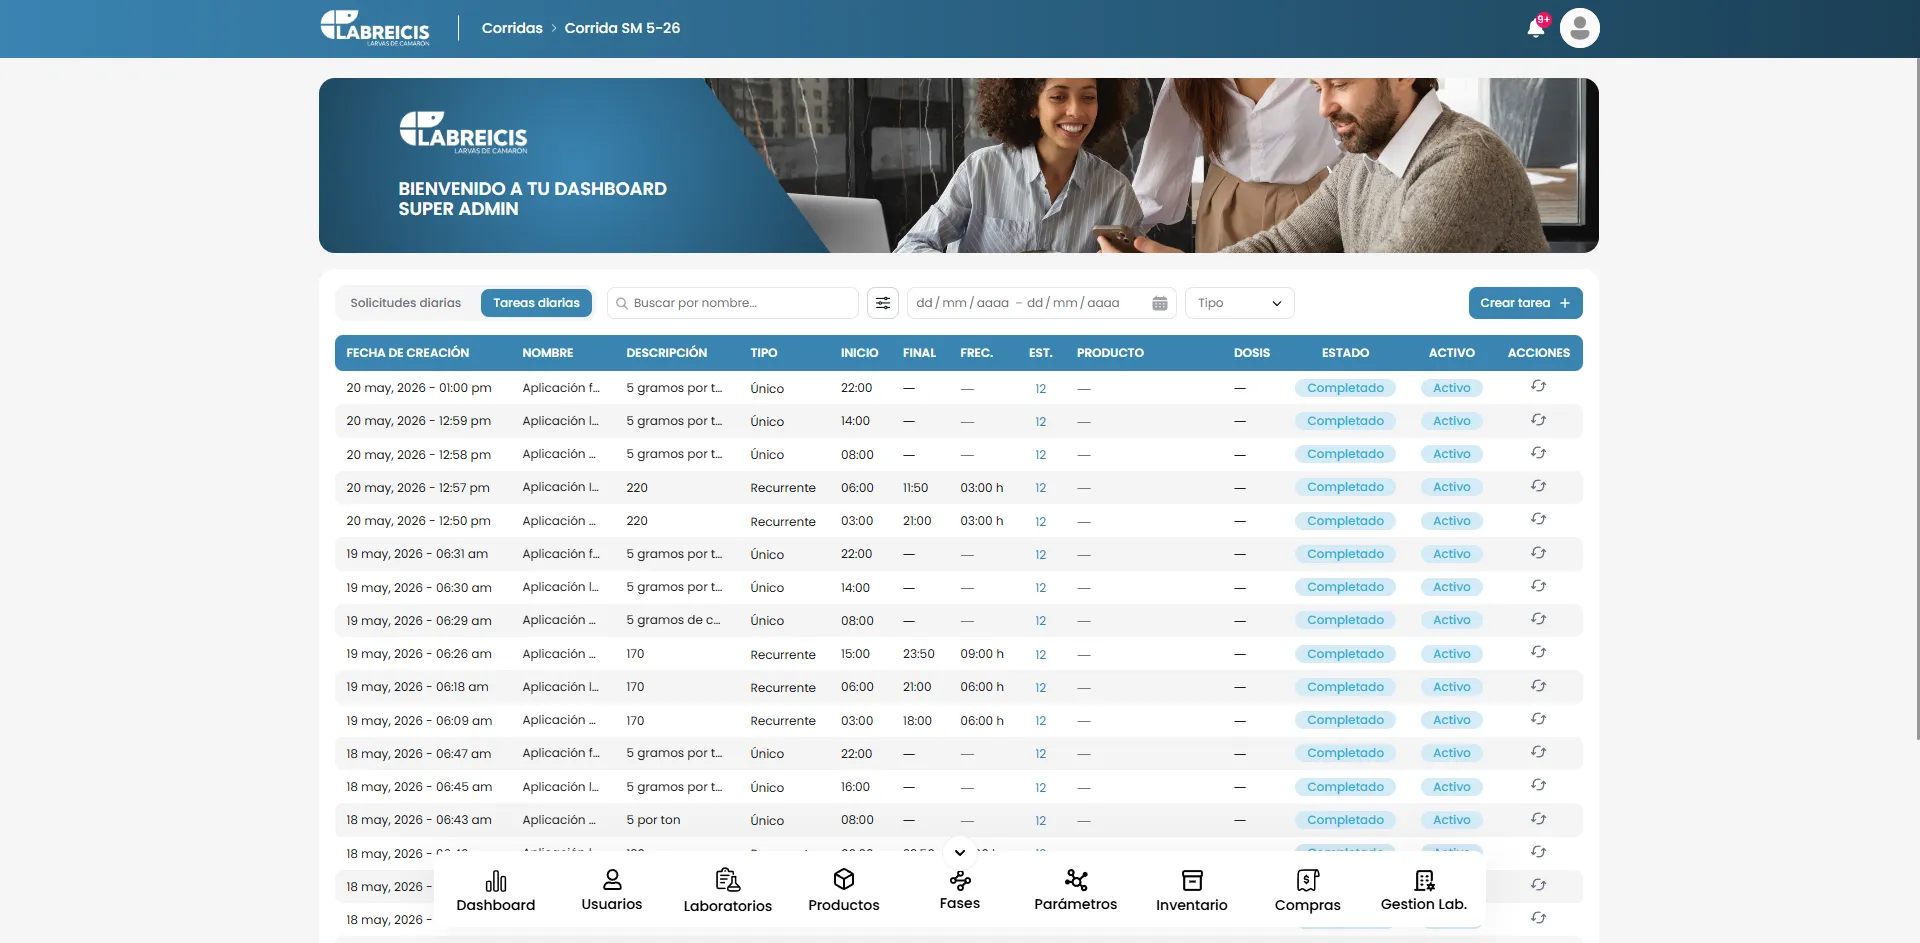
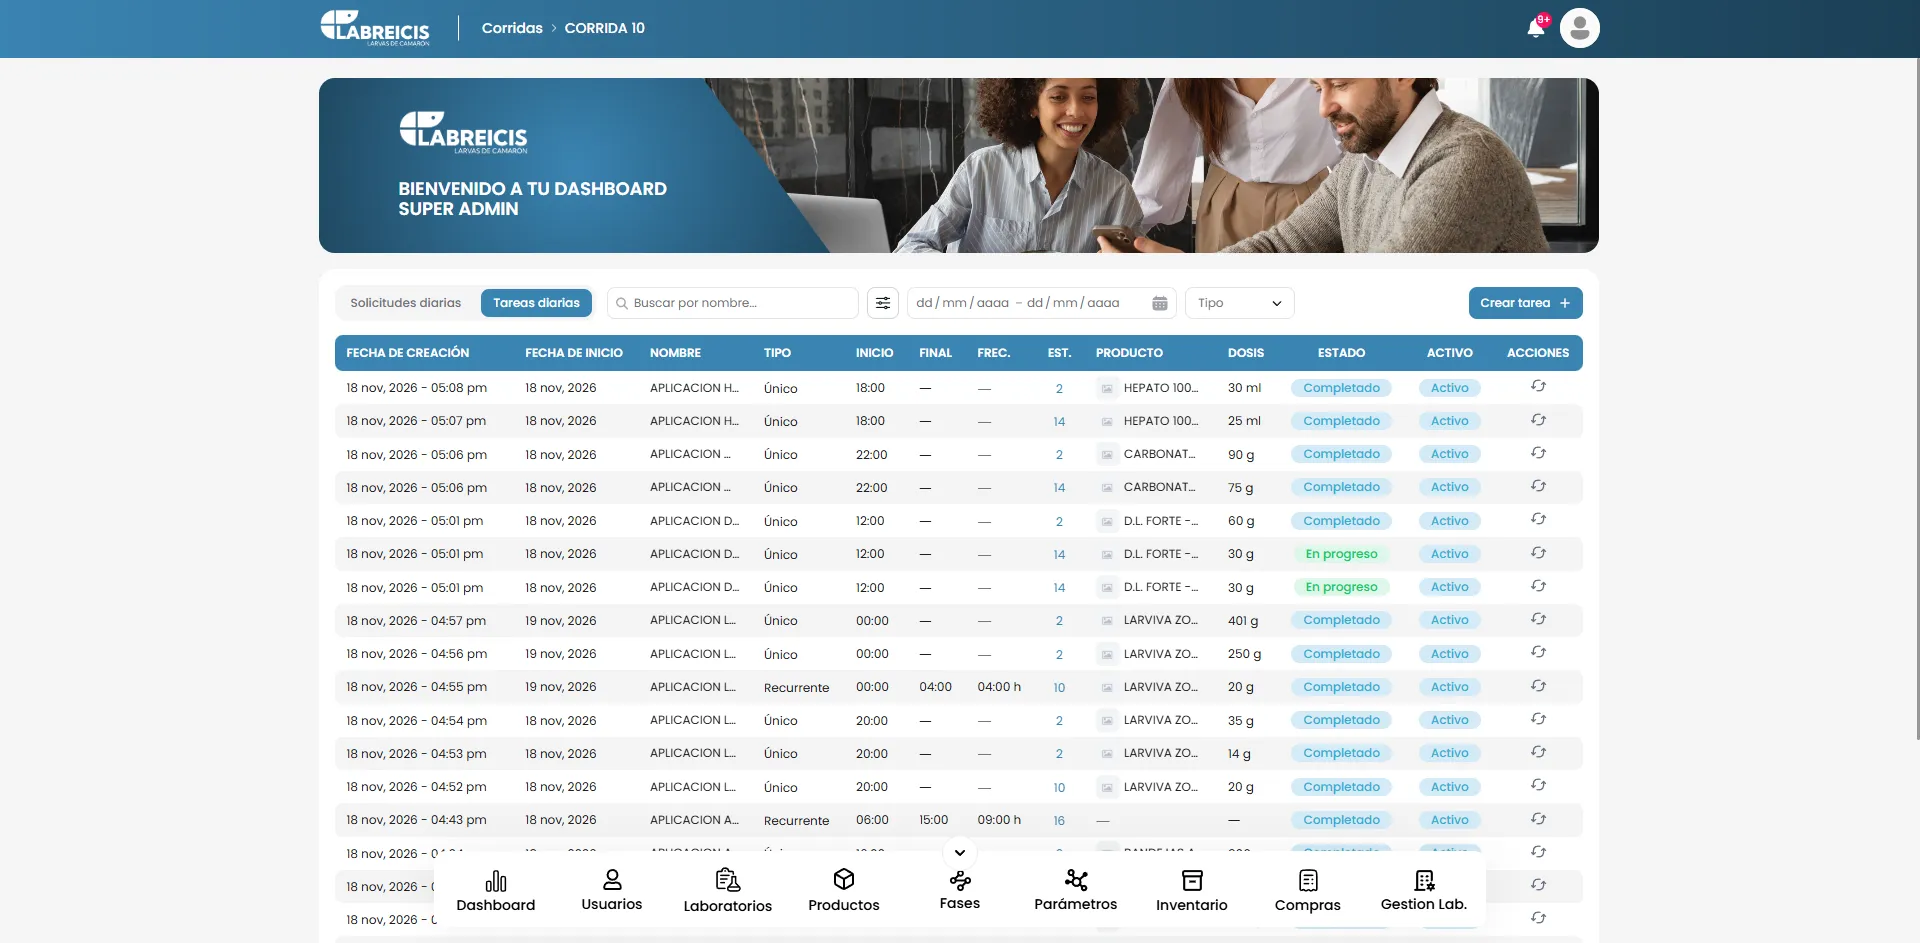
feat(projects): expand labreicis gallery with new screenshots

diff --git a/src/features/projects/data.ts b/src/features/projects/data.ts
@@ -24,6 +24,37 @@ export const projectData: Project[] = [
       { type: "image", src: "/projects/labreicis/img4.webp" },
       { type: "image", src: "/projects/labreicis/img5.webp" },
       { type: "image", src: "/projects/labreicis/img6.webp" },
+      { type: "image", src: "/projects/labreicis/img7.webp" },
+      { type: "image", src: "/projects/labreicis/img8.webp" },
+      { type: "image", src: "/projects/labreicis/img9.webp" },
+      { type: "image", src: "/projects/labreicis/img10.webp" },
+      { type: "image", src: "/projects/labreicis/img11.webp" },
+      { type: "image", src: "/projects/labreicis/img12.webp" },
+      { type: "image", src: "/projects/labreicis/img13.webp" },
+      { type: "image", src: "/projects/labreicis/img14.webp" },
+      { type: "image", src: "/projects/labreicis/img15.webp" },
+      { type: "image", src: "/projects/labreicis/img16.webp" },
+      { type: "image", src: "/projects/labreicis/img17.webp" },
+      {
+        type: "image",
+        src: "/projects/labreicis/img18.webp",
+        isContain: true,
+      },
+      {
+        type: "image",
+        src: "/projects/labreicis/img19.webp",
+        isContain: true,
+      },
+      {
+        type: "image",
+        src: "/projects/labreicis/img20.webp",
+        isContain: true,
+      },
+      {
+        type: "image",
+        src: "/projects/labreicis/img21.webp",
+        isContain: true,
+      },
     ],
     image: "/projects/labreicis/img1.webp",
     link: "https://app.labreicis.com/",
